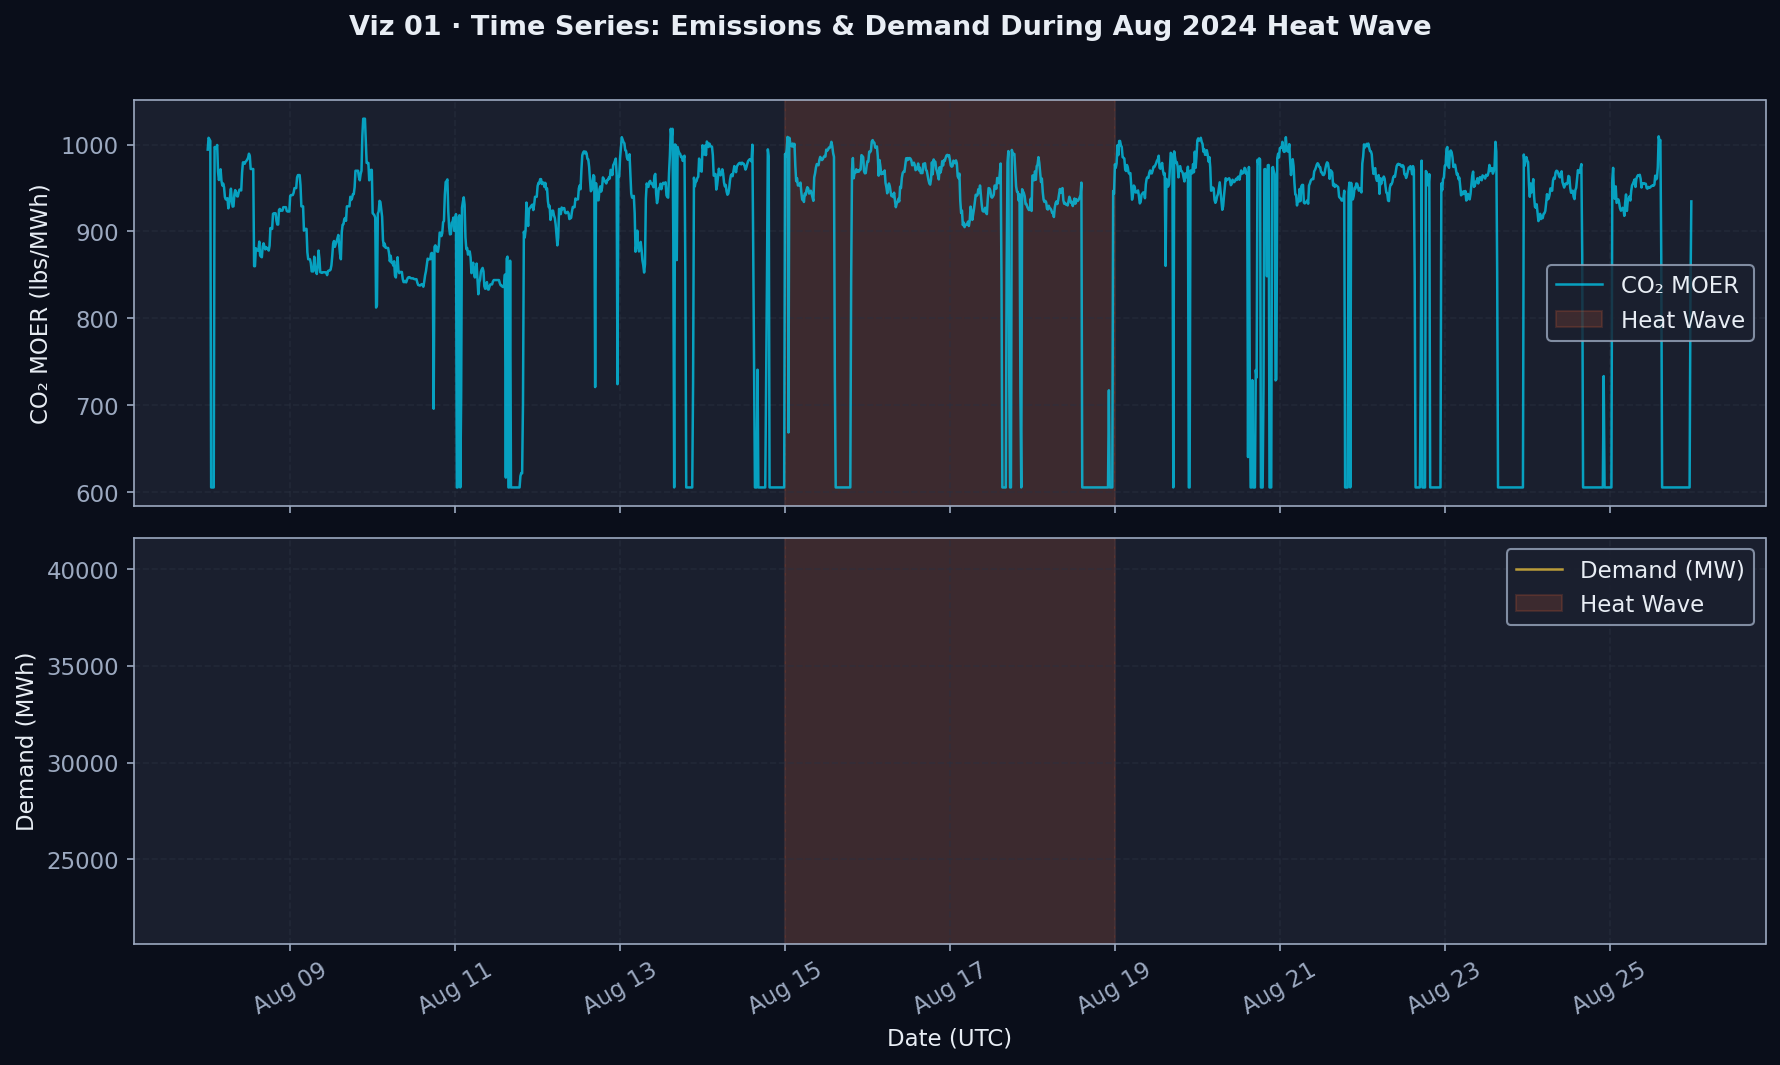
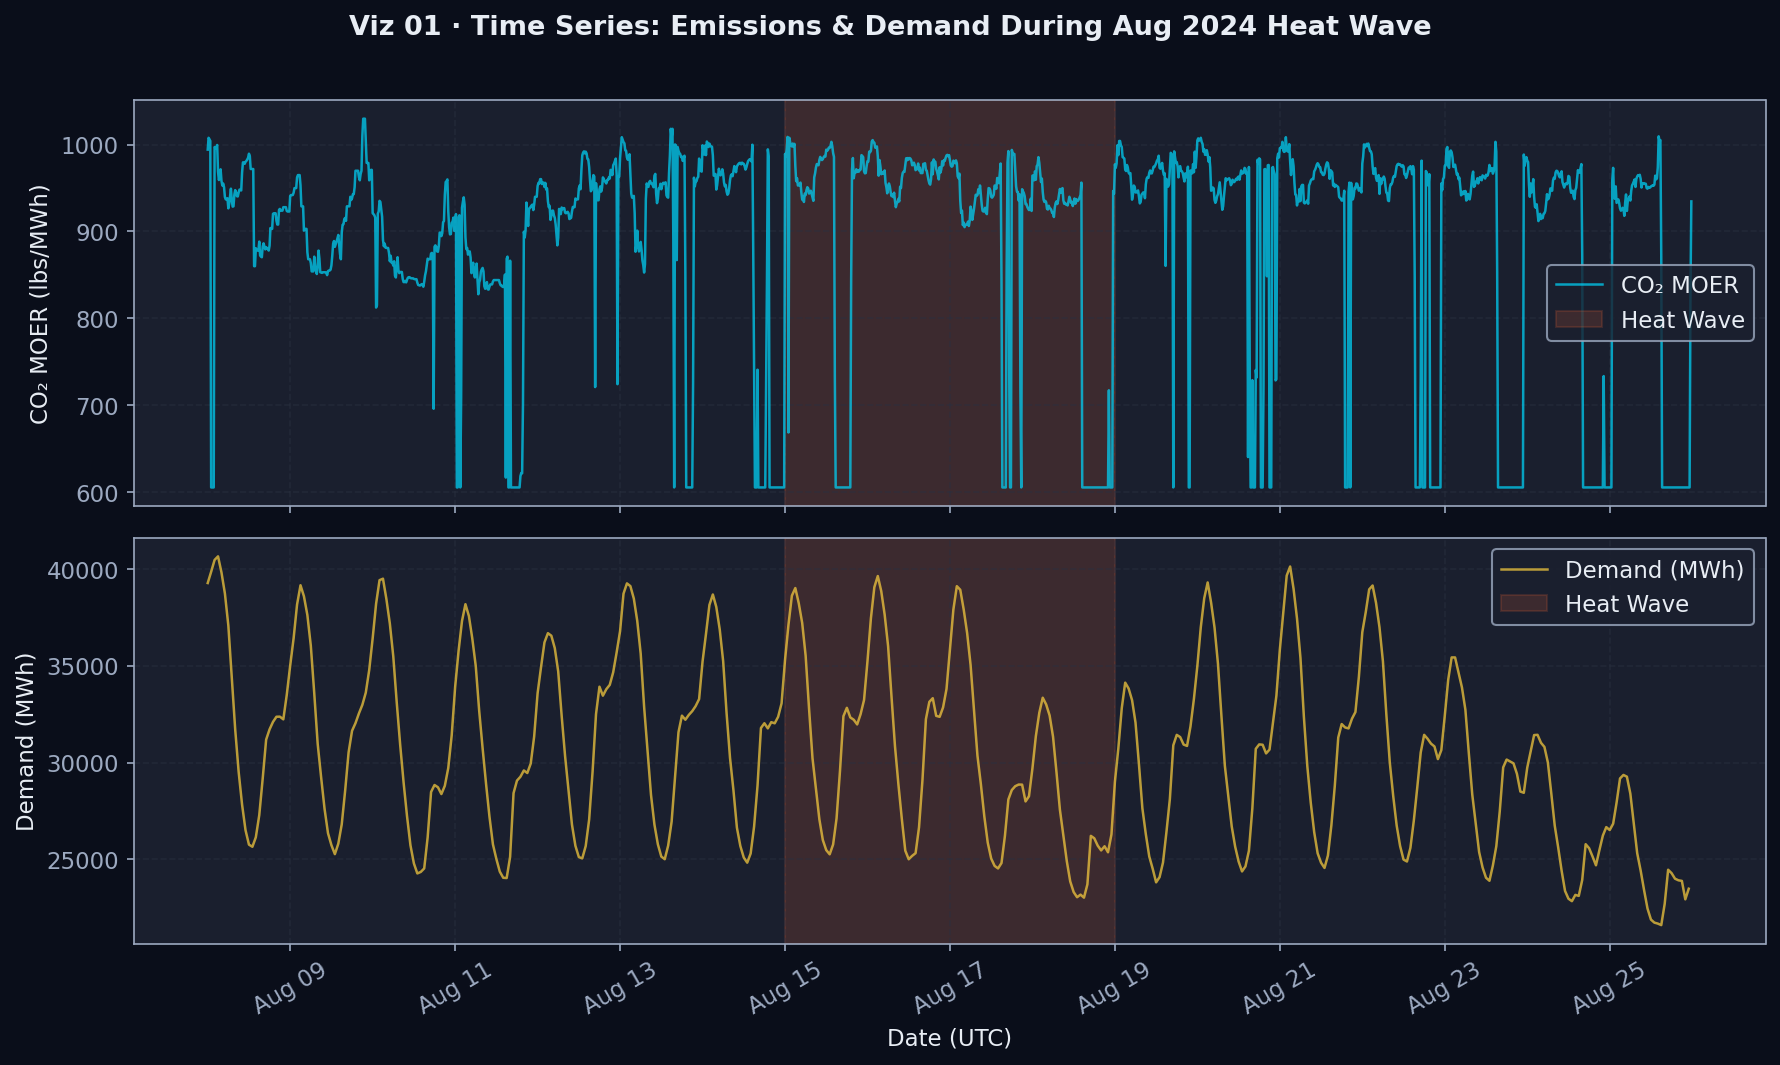
Fix 3 empty visualizations: demand line, correlation heatmap, pair plot
- viz01: plot demand using hourly-only rows (dropna) instead of 15-min NaN-filled series
- viz03: remove all-NaN demand_MW_rolling_mean_24h column; merge on nearest hourly match
- viz10: same merged fix; extract Period label before dropping timestamp column
- shared: build merged df once at load time using only valid demand readings

diff --git a/visualization.py b/visualization.py
@@ -58,11 +58,22 @@ def save(fig, name):
 e = pd.read_csv('data/processed/emissions_clean.csv', parse_dates=['timestamp'])
 d = pd.read_csv('data/processed/demand_clean.csv',   parse_dates=['timestamp'])
 
+# Demand was hourly before 15-min resampling → 3/4 rows are NaN; strip them for plotting
+d_hourly = d.dropna(subset=['demand_MW']).copy()
+
 # Event window (heat wave peak: Aug 15-18)
 event_start = pd.Timestamp('2024-08-15', tz='UTC')
 event_end   = pd.Timestamp('2024-08-19', tz='UTC')
 e_event = e[(e['timestamp'] >= event_start) & (e['timestamp'] < event_end)]
-d_event = d[(d['timestamp'] >= event_start) & (d['timestamp'] < event_end)]
+d_event = d_hourly[(d_hourly['timestamp'] >= event_start) & (d_hourly['timestamp'] < event_end)]
+
+# Merged dataset for viz 03 & 10: join on nearest timestamp, drop NaN only for key columns
+merged = pd.merge_asof(
+    e[['timestamp','value','hour','day_of_week','is_weekend',
+       'value_rolling_mean_24h','value_rolling_std_24h']].sort_values('timestamp'),
+    d_hourly[['timestamp','demand_MW']].sort_values('timestamp'),
+    on='timestamp', direction='nearest', tolerance=pd.Timedelta('30min')
+).dropna(subset=['value', 'demand_MW'])
 
 
 # ── VIZ 01: Time Series – Demand & Emissions During Heat Wave ────────────────
@@ -70,15 +81,15 @@ fig, (ax1, ax2) = plt.subplots(2, 1, figsize=(12, 7), sharex=True)
 fig.suptitle('Viz 01 · Time Series: Emissions & Demand During Aug 2024 Heat Wave',
              color=TEXT, fontsize=13, fontweight='bold', y=1.01)
 
-# Emissions
+# Emissions (15-min resolution, no NaN)
 ax1.plot(e['timestamp'], e['value'], color=CYAN, lw=1.2, alpha=0.7, label='CO₂ MOER')
 ax1.axvspan(event_start, event_end, color=ORANGE, alpha=0.15, label='Heat Wave')
 ax1.set_ylabel('CO₂ MOER (lbs/MWh)', color=TEXT)
 ax1.legend(facecolor=CARD_BG, edgecolor=MUTED, labelcolor=TEXT)
 ax1.grid(True)
 
-# Demand
-ax2.plot(d['timestamp'], d['demand_MW'], color=YELLOW, lw=1.2, alpha=0.7, label='Demand (MW)')
+# Demand: plot only valid hourly readings (no NaN gaps)
+ax2.plot(d_hourly['timestamp'], d_hourly['demand_MW'], color=YELLOW, lw=1.2, alpha=0.7, label='Demand (MWh)')
 ax2.axvspan(event_start, event_end, color=ORANGE, alpha=0.15, label='Heat Wave')
 ax2.set_ylabel('Demand (MWh)', color=TEXT)
 ax2.set_xlabel('Date (UTC)', color=TEXT)
@@ -129,18 +140,12 @@ save(fig, 'viz02_distribution.png')
 
 
 # ── VIZ 03: Correlation Heatmap ──────────────────────────────────────────────
-merged = pd.merge_asof(
-    e[['timestamp','value','hour','day_of_week','is_weekend',
-       'value_rolling_mean_24h','value_rolling_std_24h']].sort_values('timestamp'),
-    d[['timestamp','demand_MW','demand_MW_rolling_mean_24h']].sort_values('timestamp'),
-    on='timestamp', direction='nearest'
-).dropna()
-
+# Use the pre-built merged dataframe (demand_MW_rolling_mean_24h is all-NaN so excluded)
 corr_cols = ['value','demand_MW','hour','day_of_week','is_weekend',
-             'value_rolling_mean_24h','value_rolling_std_24h','demand_MW_rolling_mean_24h']
+             'value_rolling_mean_24h','value_rolling_std_24h']
 corr_labels = ['CO₂ MOER','Demand MW','Hour','Day of Week','Is Weekend',
-               'MOER Roll Mean 24h','MOER Roll Std 24h','Demand Roll Mean 24h']
-corr = merged[corr_cols].corr()
+               'MOER Roll Mean 24h','MOER Roll Std 24h']
+corr = merged[corr_cols].dropna().corr()
 corr.index = corr_labels
 corr.columns = corr_labels
 
@@ -346,13 +351,13 @@ save(fig, 'viz09_cumulative.png')
 
 
 # ── VIZ 10: Pair Plot – Multivariate Relationships ──────────────────────────
-pair_data = merged[['value','demand_MW','hour','day_of_week','value_rolling_mean_24h']].dropna()
-pair_data.columns = ['CO₂ MOER','Demand MW','Hour','Day','MOER 24h Avg']
+pair_data = merged[['timestamp','value','demand_MW','hour','day_of_week','value_rolling_mean_24h']].dropna().copy()
 pair_data['Period'] = np.where(
-    (merged.loc[pair_data.index,'timestamp'] >= event_start) &
-    (merged.loc[pair_data.index,'timestamp'] <  event_end),
+    (pair_data['timestamp'] >= event_start) & (pair_data['timestamp'] < event_end),
     'Heat Wave', 'Baseline'
 )
+pair_data = pair_data.drop(columns='timestamp')
+pair_data.columns = ['CO₂ MOER','Demand MW','Hour','Day','MOER 24h Avg','Period']
 
 palette = {'Baseline': CYAN, 'Heat Wave': ORANGE}
 g = sns.pairplot(pair_data, hue='Period', palette=palette,
